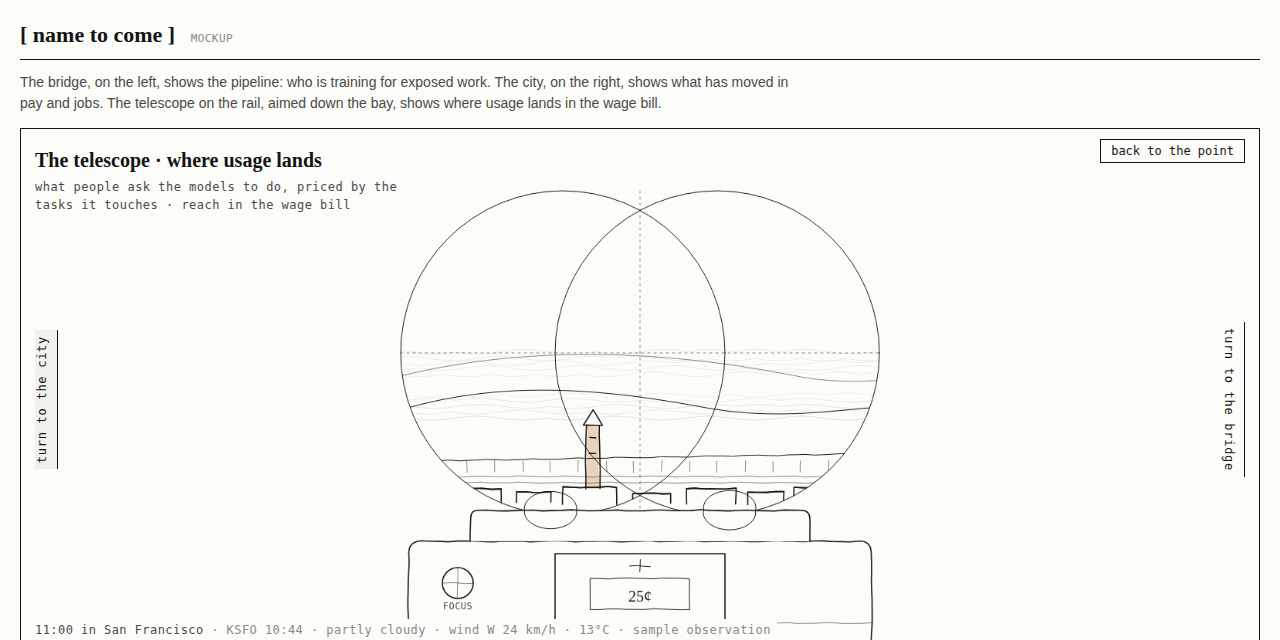
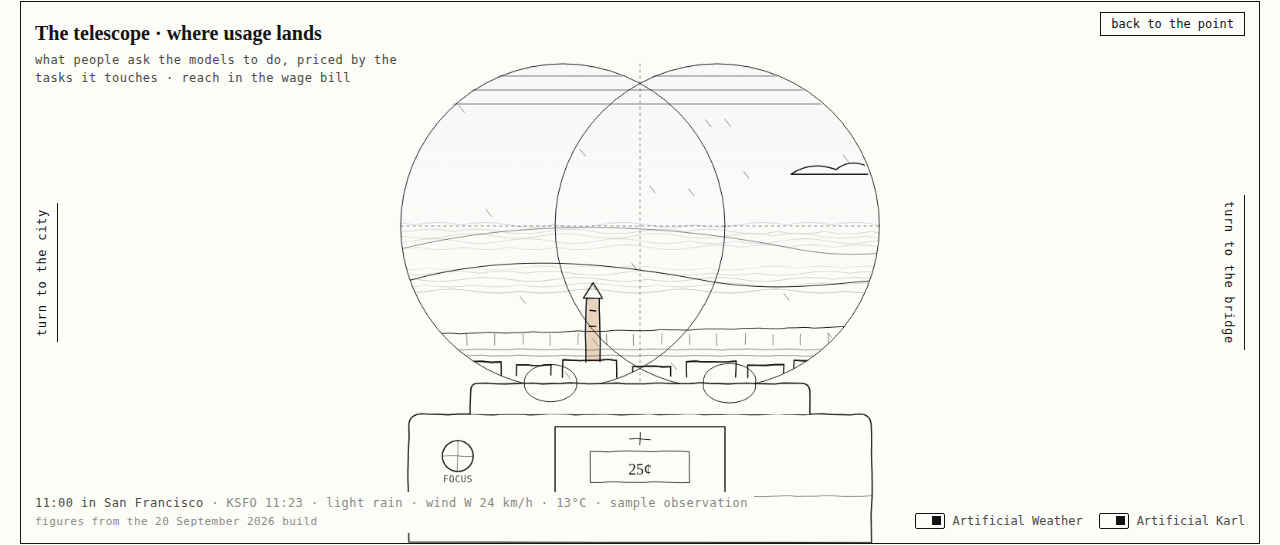
Front page: the sky barely tinted, weather through the eyepieces, a sliver of the lighthouse with its beam in the turned views, City Hall as itself, Sutro's three masts, the house wide, less of the Gate, the robotaxi bumps, gets the water, thinks, turns and goes

diff --git a/docs/mockup/index.html b/docs/mockup/index.html
@@ -43,7 +43,7 @@ header.top{display:flex;align-items:baseline;justify-content:space-between;gap:1
 .stage>svg{position:absolute;inset:0;width:100%;height:100%;overflow:visible;will-change:transform;pointer-events:none}
 .stage>svg.pan{transform-origin:50% 25%;transition:transform 1.4s cubic-bezier(.6,0,.2,1),opacity .8s}
 .stage>svg.fg{transform-origin:50% 100%;transition:transform 1.4s cubic-bezier(.6,0,.2,1)}
-.stage[data-view="valley"]>svg.pan{opacity:0}
+.stage[data-view="valley"]>svg.pan:not(#L-sky){opacity:0}
 .scene{stroke:var(--ink);fill:none;stroke-width:1.6;stroke-linecap:round;stroke-linejoin:round}
 .scene .thin{stroke-width:1}
 .scene .hair{stroke-width:.7;opacity:.75}
@@ -77,7 +77,8 @@ header.top{display:flex;align-items:baseline;justify-content:space-between;gap:1
 .skywash{mix-blend-mode:var(--blend,multiply)}
 .stage.stale .obs{color:var(--ink-3)}
 .beam{transform-origin:var(--bx) var(--by);transition:transform .8s cubic-bezier(.65,0,.25,1)}
-.stage:not([data-view="home"]) .fg .hot,.stage:not([data-view="home"]) .beam{display:none}
+.stage:not([data-view="home"]) .fg .hot,.stage[data-view="valley"] .beam{display:none}
+.stage:not([data-view="home"]) .beam path{opacity:.4}
 .halo{fill:var(--gold);stroke:none;opacity:0;transition:opacity .6s}
 .nightlight{opacity:0;transition:opacity 1.2s}
 .dusk .nightlight{opacity:.45}
@@ -193,7 +194,7 @@ header.top{display:flex;align-items:baseline;justify-content:space-between;gap:1
 
   <div class="frame">
   <div class="stage" id="stage" data-view="home" data-aw="on" data-ak="on">
-    <svg class="pan" id="L-sky" viewBox="0 0 1600 700" aria-hidden="true">
+    <svg class="pan" id="L-sky" viewBox="0 0 1600 700" aria-hidden="true" style="transform:translateX(-100%) scale(1)">
       <defs>
         <filter id="wc" x="-10%" y="-10%" width="120%" height="120%">
           <feTurbulence type="fractalNoise" baseFrequency="0.06" numOctaves="2" seed="3" result="n"/>
@@ -203,21 +204,23 @@ header.top{display:flex;align-items:baseline;justify-content:space-between;gap:1
         <filter id="glow" x="-100%" y="-100%" width="300%" height="300%"><feGaussianBlur stdDeviation="6"/></filter>
         <linearGradient id="skygrad" x1="0" y1="0" x2="0" y2="1"><stop id="sky-top" offset="0" stop-color="#BFD3E6" stop-opacity="0"/><stop id="sky-low" offset="1" stop-color="#F2B48C" stop-opacity="0"/></linearGradient>
         <mask id="fogmask"><rect x="0" y="0" width="4800" height="700" fill="white"/><polygon id="cone" points="0,0" fill="black"/></mask>
+        <linearGradient id="dawngrad" x1="0" y1="0" x2="1" y2="0"><stop offset="0" stop-color="#F2B48C" stop-opacity="0"/><stop id="dawn-mid" offset=".5" stop-color="#F2B48C"/><stop offset="1" stop-color="#F2B48C" stop-opacity="0"/></linearGradient>
+        <mask id="binoc-pan"><rect x="0" y="0" width="4800" height="700" fill="black"/><circle cx="2300" cy="290" r="210" fill="white"/><circle cx="2500" cy="290" r="210" fill="white"/></mask>
         <mask id="binoc"><rect x="0" y="0" width="1600" height="700" fill="black"/><circle cx="700" cy="290" r="210" fill="white"/><circle cx="900" cy="290" r="210" fill="white"/></mask>
       </defs>
-      <rect class="skywash" x="0" y="0" width="4800" height="342" fill="url(#skygrad)"/>
-      <g id="sky" class="scene sky thin"></g>
+      <g id="skyall"><rect class="skywash" x="0" y="0" width="4800" height="342" fill="url(#skygrad)"/>
+      <g id="sky" class="scene sky thin"></g></g>
     </svg>
     <!-- ================= the panorama: bridge | point | city, painted once ================= -->
-    <svg class="pan" id="L-static" viewBox="0 0 1600 700" aria-hidden="true"><g class="scene"><g id="washes"></g><g id="far"></g></g></svg>
-    <svg class="pan" id="L-lights" viewBox="0 0 1600 700" aria-hidden="true"><g id="lights" class="scene"></g></svg>
-    <svg class="pan" id="L-water" viewBox="0 0 1600 700" aria-hidden="true"><g class="scene"><g id="water" class="hair"></g><g id="fog" class="fog" mask="url(#fogmask)"></g></g></svg>
+    <svg class="pan" id="L-static" viewBox="0 0 1600 700" aria-hidden="true" style="transform:translateX(-100%) scale(1)"><g class="scene"><g id="washes"></g><g id="far"></g></g></svg>
+    <svg class="pan" id="L-lights" viewBox="0 0 1600 700" aria-hidden="true" style="transform:translateX(-100%) scale(1)"><g id="lights" class="scene"></g></svg>
+    <svg class="pan" id="L-water" viewBox="0 0 1600 700" aria-hidden="true" style="transform:translateX(-100%) scale(1)"><g class="scene"><g id="water" class="hair"></g><g id="fog" class="fog" mask="url(#fogmask)"></g></g></svg>
     <!-- foreground: the point, the lighthouse, the railing, the viewer at rest -->
     <svg class="fg" id="L-fg" viewBox="0 0 1600 700" role="group" aria-label="An ink drawing of a lighthouse on a headland. Turn to the city or the bridge, or raise the coin telescope to look at the valley.">
       <g id="fg" class="scene">
         <path d="M560 700 C 600 620, 690 590, 760 585 C 830 580, 880 600, 930 610 C 980 620, 1040 660, 1060 700 Z" style="fill:var(--paper)"/>
         <path d="M600 660 C 650 640, 700 645, 740 630 M850 640 C 900 630, 950 650, 1000 670" class="thin"/>
-        <g class="beam" id="beam" style="--bx:800px;--by:300px"><path d="M800 300 L 1590 150 M800 300 L 1590 450" class="hair" stroke-dasharray="6 6"/></g>
+        <g class="beam" id="beam" style="--bx:800px;--by:300px"><path d="M800 300 L 3200 -156 M800 300 L 3200 756" class="hair" stroke-dasharray="6 6"/></g>
         <g id="lh"></g>
         <path d="M640 604 L 960 604 M640 604 L 640 630 M720 604 L 720 632 M800 604 L 800 632 M880 604 L 880 630 M960 604 L 960 628" class="thin"/>
         <g class="hot" id="hot-tele" tabindex="0" role="button" aria-label="The telescope: where usage lands">
@@ -357,6 +360,18 @@ header.top{display:flex;align-items:baseline;justify-content:space-between;gap:1
   function blob(g, x, y, w, h, color, seed){ const r = rng(seed); let d = `M${x} ${y+h/2}`; const n=7; for (let i=1;i<=n;i++){ const a = i/n*2*Math.PI; d += ` Q ${x+w/2+Math.cos(a-0.4)*w*0.6*(0.8+r()*0.4)} ${y+h/2+Math.sin(a-0.4)*h*0.6*(0.8+r()*0.4)} ${x+w/2+Math.cos(a)*w/2} ${y+h/2+Math.sin(a)*h/2}`; } return el("path", {d, class:"wc", style:`fill:${color}`}, g); }
   function tint(g, d, color, seed=1){ return el("path", {d, class:"wc", style:`fill:${color}`}, g); }
   function tintRect(g, x, y, w, h, color){ return tint(g, `M${x} ${y} h ${w} v ${h} h ${-w} Z`, color); }
+  // City Hall: the wide colonnaded base with its portico, the drum, the dome and the lantern
+  function domePath(x, base, w, h){ return `M ${x-w/2} ${base} C ${x-w/2} ${base-h*0.9}, ${x-w/2+w*0.15} ${base-h}, ${x} ${base-h} C ${x+w/2-w*0.15} ${base-h}, ${x+w/2} ${base-h*0.9}, ${x+w/2} ${base} Z`; }
+  function domeHalf(x, base, w, h, side){ const e = x + side*w/2, c = x + side*(w/2 - w*0.15); return `M ${e} ${base} C ${e} ${base-h*0.9}, ${c} ${base-h}, ${x} ${base-h} L ${x} ${base} Z`; }
+  function cityhall(g, x, gy){
+    el("path", {d:`M ${x-60} ${gy} L ${x-60} ${gy-22} L ${x+60} ${gy-22} L ${x+60} ${gy}`}, g);
+    for (let c=x-52; c<=x+52; c+=8) if (Math.abs(c-x) > 16) el("path", {d:`M${c} ${gy-4} L ${c} ${gy-18}`, class:"hair"}, g);
+    el("path", {d:`M ${x-14} ${gy} L ${x-14} ${gy-26} L ${x} ${gy-32} L ${x+14} ${gy-26} L ${x+14} ${gy} M ${x-8} ${gy-4} L ${x-8} ${gy-22} M ${x} ${gy-4} L ${x} ${gy-24} M ${x+8} ${gy-4} L ${x+8} ${gy-22}`, class:"thin"}, g);
+    el("path", {d:`M ${x-22} ${gy-22} L ${x-22} ${gy-44} L ${x+22} ${gy-44} L ${x+22} ${gy-22}`, class:"thin"}, g);
+    for (let c=x-16; c<=x+16; c+=8) el("path", {d:`M${c} ${gy-26} L ${c} ${gy-41}`, class:"hair"}, g);
+    el("path", {d:domePath(x, gy-44, 44, 24)}, g);
+    el("path", {d:`M ${x-3} ${gy-68} L ${x-3} ${gy-76} L ${x+3} ${gy-76} L ${x+3} ${gy-68} M ${x} ${gy-76} L ${x} ${gy-82}`, class:"thin"}, g);
+  }
   function dome(g, x, baseY, w, cls){ el("path", {d:`M ${x-w/2} ${baseY} L ${x-w/2} ${baseY-20} L ${x+w/2} ${baseY-20} L ${x+w/2} ${baseY}`, class:cls}, g); el("path", {d:`M ${x-w*0.33} ${baseY-20} C ${x-w*0.33} ${baseY-20-w*0.6}, ${x+w*0.33} ${baseY-20-w*0.6}, ${x+w*0.33} ${baseY-20} M ${x-4} ${baseY-20-w*0.46} L ${x+4} ${baseY-20-w*0.46} L ${x} ${baseY-20-w*0.62} Z`, class:cls}, g); }
   function campanile(g, x, baseY, h){ el("path", {d:`M ${x-11} ${baseY} L ${x-11} ${baseY-h} L ${x+11} ${baseY-h} L ${x+11} ${baseY} M ${x-14} ${baseY-h} L ${x+14} ${baseY-h} L ${x} ${baseY-h-22} Z M ${x-6} ${baseY-h+10} L ${x-6} ${baseY-h+30} M ${x+6} ${baseY-h+10} L ${x+6} ${baseY-h+30} M ${x-4} ${baseY-h+50} L ${x+4} ${baseY-h+50}`}, g); }
 
@@ -429,8 +444,11 @@ header.top{display:flex;align-items:baseline;justify-content:space-between;gap:1
     el("path", {d:`M ${ox+30} ${baseY-6} C ${ox+200} ${baseY-30}, ${ox+400} ${baseY-40}, ${ox+700} ${baseY-24} C ${ox+900} ${baseY-14}, ${ox+1100} ${baseY-20}, ${ox+1580} ${baseY-8}`, class:"thin"}, g);
     el("path", {d:`M ${ox+520} ${baseY-60} C ${ox+640} ${baseY-120}, ${ox+760} ${baseY-118}, ${ox+880} ${baseY-70}`, class:"hair"}, g);
     const sx = ox+700, sy = baseY-118;
-    el("path", {d:`M${sx-14} ${sy} L ${sx} ${sy-92} L ${sx+14} ${sy} M${sx-9} ${sy-30} L ${sx+9} ${sy-30} M${sx-6} ${sy-58} L ${sx+6} ${sy-58} M${sx-22} ${sy-70} L ${sx+22} ${sy-70}`, class:"thin"}, g);
-    suspension(g, ox+300, ox+490, baseY-34, 130, 90);
+    // Sutro: three masts, the outer pair upright at the top, pinched to a waist, splayed to the feet, tied by struts
+    const H = 100;
+    el("path", {d:`M${sx-14} ${sy-H} L ${sx-14} ${sy-H*0.62} L ${sx-5} ${sy-H*0.38} L ${sx-22} ${sy} M${sx} ${sy-H-8} L ${sx} ${sy} M${sx+14} ${sy-H} L ${sx+14} ${sy-H*0.62} L ${sx+5} ${sy-H*0.38} L ${sx+22} ${sy}`, class:"thin"}, g);
+    for (const [f, hw] of [[0.92, 14], [0.62, 14], [0.38, 5], [0.14, 17]]) el("path", {d:`M${sx-hw} ${sy-H*f} L ${sx+hw} ${sy-H*f}`, class:"hair"}, g);
+    suspension(g, ox+60, ox+250, baseY-34, 130, 90);
     el("path", {d:`M ${ox+560} ${baseY-30} L ${ox+600} ${baseY-44} L ${ox+640} ${baseY-30} M ${ox+596} ${baseY-44} L ${ox+596} ${baseY-60} L ${ox+606} ${baseY-60} L ${ox+606} ${baseY-44}`, class:"thin"}, g);
     const towers = [[860,110,26,1],[892,150,24,1],[920,80,20,0],[946,200,30,1],[982,260,34,1],[1022,180,26,1],[1054,150,22,1],[1082,120,28,0],[1116,96,22,1],[1144,140,26,1],[1176,70,20,0]];
     for (const [x,h,w,win] of towers) box(g, ox+x, baseY-h-8, w, h, win);
@@ -439,21 +457,22 @@ header.top{display:flex;align-items:baseline;justify-content:space-between;gap:1
     // City Hall, and Hayes Valley just west of it: Patricia's Green with its trees, and the red house over the green
     // City Hall and Hayes Valley sit west of the towers, under Sutro, on the shore's register: the dome, the green with its trees, and the red house over the green
     const hv = ox+CH, gy = baseY-8;
-    dome(g, hv, gy, 80, "thin");
-    for (let x=hv-96; x<hv-44; x+=12) el("path", {d:`M${x} ${gy} L ${x+6} ${gy-8} L ${x+12} ${gy}`, class:"hair"}, g);
-    el("path", {d:`M ${hv-60} ${gy} L ${hv-60} ${gy-32} L ${hv-42} ${gy-32} L ${hv-42} ${gy} M ${hv-56} ${gy-24} L ${hv-46} ${gy-24} M ${hv-56} ${gy-14} L ${hv-46} ${gy-14}`, class:"thin"}, g);
-    for (const x of [hv-88, hv-74]) el("path", {d:`M${x} ${gy} q 0 -12 7 -14 q 7 2 7 14 z`, class:"hair"}, g);
+    cityhall(g, hv, gy);
+    // the house over the green: three storeys, six windows across, west of City Hall
+    el("path", {d:`M ${hv-112} ${gy} L ${hv-112} ${gy-24} L ${hv-72} ${gy-24} L ${hv-72} ${gy}`, class:"thin"}, g);
+    for (let r=0; r<3; r++) for (let c=0; c<6; c++) el("path", {d:`M${hv-109+c*6.4} ${gy-19+r*6.5} l 3.4 0`, class:"hair"}, g);
     // the hydrant on the Embarcadero, past the Ferry Building, where the robotaxi meets it
-    el("path", {d:`M ${ox+HYD-3} ${gy} L ${ox+HYD-3} ${gy-11} Q ${ox+HYD} ${gy-15} ${ox+HYD+3} ${gy-11} L ${ox+HYD+3} ${gy} M ${ox+HYD-6} ${gy-7} L ${ox+HYD+6} ${gy-7}`, class:"thin"}, g);
+    el("path", {d:`M ${ox+HYD-3} ${gy} L ${ox+HYD-3} ${gy-14} Q ${ox+HYD} ${gy-18} ${ox+HYD+3} ${gy-14} L ${ox+HYD+3} ${gy} M ${ox+HYD-6} ${gy-9} L ${ox+HYD+6} ${gy-9} M ${ox+HYD-3} ${gy-5} L ${ox+HYD+3} ${gy-5}`, class:"thin"}, g);
     // Ferry Building on the waterfront
     el("path", {d:`M ${ox+1190} ${baseY-8} L ${ox+1190} ${baseY-30} L ${ox+1290} ${baseY-30} L ${ox+1290} ${baseY-8}`}, g);
     for (let x=ox+1198; x<ox+1290; x+=9) el("path", {d:`M${x} ${baseY-26} L ${x} ${baseY-12}`, class:"hair"}, g);
     el("path", {d:`M ${ox+1232} ${baseY-30} L ${ox+1232} ${baseY-96} L ${ox+1248} ${baseY-96} L ${ox+1248} ${baseY-30} M ${ox+1229} ${baseY-96} L ${ox+1251} ${baseY-96} L ${ox+1240} ${baseY-110} Z`}, g);
     el("circle", {cx:ox+1240, cy:baseY-84, r:5, class:"thin"}, g);
     if (colour){
-      tint(washes, `M ${hv-27} ${gy-20} C ${hv-27} ${gy-68}, ${hv+27} ${gy-68}, ${hv+27} ${gy-20} Z`, "var(--gold)");   // the dome
-      tintRect(washes, hv-59, gy-31, 16, 31, "var(--rose)");                                                        // the house over the green
-      tint(washes, `M ${hv-96} ${gy} h 52 v 2 h -52 Z M ${hv-88} ${gy} q 0 -12 7 -14 q 7 2 7 14 Z M ${hv-74} ${gy} q 0 -12 7 -14 q 7 2 7 14 Z`, "var(--green)"); // the green and its trees
+      tint(washes, domePath(hv, gy-44, 44, 24), "var(--glass)").style.opacity = ".3";                               // the dome, grey-blue
+      tintRect(washes, hv-3, gy-82, 6, 14, "var(--gold)");                                                          // the lantern's gold
+      tintRect(washes, hv-60, gy-22, 120, 22, "var(--cream)").style.opacity = ".3";                                 // the stone
+      tintRect(washes, hv-111, gy-23, 38, 23, "var(--rose)");                                                       // the house over the green
       tintRect(washes, ox+1191, baseY-29, 98, 21, "var(--cream)");                                                                // the Ferry Building
       tintRect(washes, ox+1233, baseY-95, 14, 66, "var(--cream)");
       tintRect(washes, ox+983, baseY-267, 32, 259, "var(--glass)").style.opacity = ".12";                                          // the tallest tower
@@ -491,16 +510,16 @@ header.top{display:flex;align-items:baseline;justify-content:space-between;gap:1
     const ox = HOME*2, baseY = 400, [ca, cb] = nightPair(d);
     // the dome, split by the pair
     const hv = ox+CH, gy = baseY-8;
-    tint(LIGHTS, `M ${hv-27} ${gy-20} C ${hv-27} ${gy-68}, ${hv} ${gy-68}, ${hv} ${gy-60} L ${hv} ${gy-20} Z`, ca).classList.add("nightlight");
-    tint(LIGHTS, `M ${hv} ${gy-20} L ${hv} ${gy-60} C ${hv} ${gy-68}, ${hv+27} ${gy-68}, ${hv+27} ${gy-20} Z`, cb).classList.add("nightlight");
+    tint(LIGHTS, domeHalf(hv, gy-44, 44, 24, -1), ca).classList.add("nightlight");
+    tint(LIGHTS, domeHalf(hv, gy-44, 44, 24, 1), cb).classList.add("nightlight");
     // the crown: a soft wash and a grid of blocks that breathe out of step
     tintRect(LIGHTS, ox+983, baseY-290, 32, 30, "#9FB7C9").classList.add("nightlight");
     const grid = el("g", {class:"nightlight"}, LIGHTS); const r = rng(59);
     for (let i=0;i<4;i++) for (let j=0;j<5;j++){ const b = el("rect", {x:ox+986+i*7, y:baseY-286+j*6, width:5, height:4, class:"crownblock", style:`fill:#9FB7C9;stroke:none`}, grid); b.style.animationDelay = (-r()*9).toFixed(1) + "s"; }
     // the same lights, small, in the far city seen from the point
-    const fx = HOME+1020+CH*.55, fb = 300+(250-8-20)*.55, ft = 300+(250-8-68)*.55;                    // the far dome, drawn at .55 on a base of 250
-    tint(LIGHTS, `M ${fx-15} ${fb} C ${fx-15} ${ft}, ${fx} ${ft}, ${fx} ${ft+4} L ${fx} ${fb} Z`, ca).classList.add("nightlight");
-    tint(LIGHTS, `M ${fx} ${fb} L ${fx} ${ft+4} C ${fx} ${ft}, ${fx+15} ${ft}, ${fx+15} ${fb} Z`, cb).classList.add("nightlight");
+    const fx = HOME+1020+CH*.55, fb = 300+(250-8-44)*.55;                                             // the far dome, drawn at .55 on a base of 250
+    tint(LIGHTS, domeHalf(fx, fb, 44*.55, 24*.55, -1), ca).classList.add("nightlight");
+    tint(LIGHTS, domeHalf(fx, fb, 44*.55, 24*.55, 1), cb).classList.add("nightlight");
     tintRect(LIGHTS, HOME+1020+983*.55, 300+(250-290)*.55, 18, 16, "#9FB7C9").classList.add("nightlight");   // the far crown
   }
   drawLights(new Date());
@@ -556,7 +575,8 @@ header.top{display:flex;align-items:baseline;justify-content:space-between;gap:1
   function setCone(t){
     const a = {city:[-14, 14], bridge:[166, 194], tele:[70, 110]}[t];
     if (!a){ cone.setAttribute("points", "0,0"); return; }
-    const ox=800+HOME, oy=300, L=1400, p=[[ox,oy]];
+    // the lantern, in panorama units, for the view the fog is cut in: at the point, or at the edge of the frame when the view has turned
+    const [ox, oy] = ({ city:[3408, 227], bridge:[1392, 227] })[stage.dataset.view] || [800+HOME, 300], L=1400, p=[[ox,oy]];
     for (let d=a[0]; d<=a[1]; d+=4){ const r=d*Math.PI/180; p.push([ox+L*Math.cos(r), oy+L*Math.sin(r)]); }
     cone.setAttribute("points", p.map(q=>q.join(",")).join(" "));
   }
@@ -585,13 +605,13 @@ header.top{display:flex;align-items:baseline;justify-content:space-between;gap:1
              title:"What has moved", lens:"Pay and employment by occupation, folded into 25 named skill groups and tested each year against that group's own year-to-year swing. The lens is set in advance at the size a move would have to reach to stand out from that history, which is why a small reading is still the right reading: this is the instrument that will notice. It changes once a year, with each spring release of the wage tables.",
              f1:["2.8","of 6.1","pay · largest standardised move · 2025 release","Six of 25 skill groups moved beyond two of their own standard errors; the largest sits at 2.8 against a lens of 6.1."],
              f2:["4.4","of 4.0","jobs · employment-weighted skill mix · 2025","The quantity side touched its lens this year. Whether it holds is what the next release answers."],
-             left:["bridge","turn to the bridge"], right:["valley","raise the telescope"], pan:-HOME*2, fgx:-720, z:1.25,
+             left:["bridge","turn to the bridge"], right:["valley","raise the telescope"], pan:-HOME*2, fgx:-770, z:1.25,
              tables:["outcomes_pay_series_balanced.csv","outcomes_quantity_series_balanced.csv","outcomes_pay_changes.csv"] },
     bridge:{ cap:["The bridge · the pipeline", "who is training for exposed work · degrees are the channel the counts can see"],
              title:"The pipeline", lens:"Bachelor's degrees awarded in fields whose graduates go on to exposed occupations, with each field scored by where its graduates actually work. This is the channel policy can count and the one that answers slowly, so a shift here is an early sign rather than a result. It changes once a year with the completions file, and the lateral channel, people arriving from other jobs, joins it when the flows matrix is released.",
              f1:["41","% of bachelor's","awarded in fields that lead to exposed jobs · 2024","Up from 40 percent the year before. Fields are scored by where their graduates actually work, not by where the catalogue says they should."],
              f2:["4 to 12","×","lateral arrivals over graduates, by occupation","From the flow account. The lateral matrix itself is the next file to arrive; until then this column carries the education channel only."],
-             left:["valley","raise the telescope"], right:["city","turn to the city"], pan:0, fgx:720, z:1.25,
+             left:["valley","raise the telescope"], right:["city","turn to the city"], pan:0, fgx:770, z:1.25,
              tables:["pipeline_completions_by_state.csv","pipeline_enrolment_by_exposure.csv","pipeline_field_exposure_crosswalk.csv","capacity_education_channel.csv"] },
     valley:{ cap:["The telescope · where usage lands", "what people ask the models to do, priced by the tasks it touches · reach in the wage bill"],
              title:"Where usage lands", lens:"What people ask the models to do, mapped through eighteen thousand tasks onto the dollars paid for them, then onto the skills those tasks use. Usage is where a change starts, so this is the view that moves first and most often, and it says nothing yet about pay. It changes with each platform release, every few months, and three platforms are shown side by side because each sees only its own users.",
@@ -633,7 +653,8 @@ header.top{display:flex;align-items:baseline;justify-content:space-between;gap:1
     stage.dataset.view = view;
     $("#life").replaceChildren();                                              // whatever was crossing the last view stays there
     hold(); light(null);
-    if (view === "valley") $("#life").setAttribute("mask", "url(#binoc)"); else $("#life").removeAttribute("mask");
+    if (view === "valley"){ $("#life").setAttribute("mask", "url(#binoc)"); $("#skyall").setAttribute("mask", "url(#binoc-pan)"); }
+    else { $("#life").removeAttribute("mask"); $("#skyall").removeAttribute("mask"); }
     const r = R[view];
     // the surfaces slide and lean in together; a percent of the surface width is a panorama unit over 1600
     pans.forEach(p => { p.style.transform = `translateX(${(r.pan*r.z/16).toFixed(3)}%) scale(${r.z})`; });
@@ -659,7 +680,7 @@ header.top{display:flex;align-items:baseline;justify-content:space-between;gap:1
     } else {
       vv.classList.add("off"); big.classList.add("down");
       timer = setTimeout(()=>{ valley.classList.add("off"); fg.classList.remove("off"); }, 600);
-      if (view==="home") sweep(); else { hold(); light(null); }
+      if (view==="home") sweep(); else { hold(); light(null); aim(view); }
     }
   }
   home.addEventListener("click", ()=>go("home"));
@@ -771,8 +792,8 @@ header.top{display:flex;align-items:baseline;justify-content:space-between;gap:1
   const sky = $("#sky");
   // The sky's own colour: the faintest wash, blue by day, warm at the horizon around dawn and dusk, a deep
   // blue at night. Each is a pair of stops keyed to the sun's altitude and blended between the keys.
-  const SKYKEYS = [[-18, ["#1B2238", .55, "#1B2238", .25]], [-7, ["#5D5F86", .45, "#E9A27A", .35]], [-1, ["#B4B0CF", .4, "#F2B48C", .55]],
-                   [6, ["#BFD3E6", .35, "#F4C9A6", .3]], [16, ["#BFD3E6", .38, "#DCE7EF", .08]]];
+  const SKYKEYS = [[-18, ["#1B2238", .28, "#1B2238", .1]], [-7, ["#5D5F86", .16, "#E9A27A", .14]], [-1, ["#B4B0CF", .14, "#F2B48C", .22]],
+                   [6, ["#BFD3E6", .12, "#F4C9A6", .1]], [16, ["#BFD3E6", .1, "#DCE7EF", .02]]];
   function hexLerp(a, b, t){ const A = a.match(/\w\w/g).map(h=>parseInt(h,16)), B = b.match(/\w\w/g).map(h=>parseInt(h,16)); return "#" + A.map((v,i)=>Math.round(v + (B[i]-v)*t).toString(16).padStart(2,"0")).join(""); }
   function skyColour(sun){
     const a = Math.max(SKYKEYS[0][0], Math.min(SKYKEYS[SKYKEYS.length-1][0], sun.alt)); let i = 0; while (i < SKYKEYS.length-2 && a > SKYKEYS[i+1][0]) i++;
@@ -794,7 +815,7 @@ header.top{display:flex;align-items:baseline;justify-content:space-between;gap:1
     document.querySelectorAll(".fog").forEach(g=>{ g.style.opacity = w.fog; });
     sky.innerHTML = "";
     const r = rng(w.clouds*13+7);
-    for (let i=0;i<w.clouds*3;i++){ const x = r()*W, y = 150 + r()*60, wd = 80 + r()*140;
+    for (let i=0;i<w.clouds*3;i++){ const x = r()*W, y = 200 + r()*50, wd = 80 + r()*140;
       const d = w.streak ? `M${x} ${y} q ${wd*.5} -6 ${wd} 0 M${x+20} ${y+8} q ${wd*.3} -4 ${wd*.6} 0` : `M${x} ${y} q ${wd*.2} -18 ${wd*.45} -6 q ${wd*.15} -16 ${wd*.35} -2 q ${wd*.2} -4 ${wd*.2} 8 Z`;
       const c = el("path", {d, class:"cloud"}, sky); c.style.animationDelay = (-r()*240).toFixed(0) + "s"; }
     if (w.band) for (let y=96; y<140; y+=18) el("path", {d:`M 0 ${y} L ${W} ${y}`, class:"hair"}, sky);
@@ -817,7 +838,8 @@ header.top{display:flex;align-items:baseline;justify-content:space-between;gap:1
     }
     if (sun.alt > -8 && sun.alt < 8){                                            // dawn or dusk: one warm band on the horizon, where the sun is
       const x = xOfAzimuth(sun.az); const morning = sun.az < 180;
-      tint($("#washes"), `M ${x-700} 306 Q ${x} 296 ${x+700} 306 L ${x+700} 340 L ${x-700} 340 Z`, morning ? "#F2B48C" : "#E07A3F").classList.add("dawn");
+      $("#dawn-mid").setAttribute("stop-color", morning ? "#F2B48C" : "#E07A3F");
+      const band = tint($("#washes"), `M ${x-700} 306 Q ${x} 296 ${x+700} 306 L ${x+700} 340 L ${x-700} 340 Z`, "none"); band.style.fill = "url(#dawngrad)"; band.classList.add("dawn");
     }
     // the moon is drawn at its phase and where it is; on a night it has set, the drawing keeps it low over the horizon anyway
     if ((moon.alt > 0 || night) && (night || sun.alt < 4) && w.fog < .9 && !w.band){
@@ -886,14 +908,17 @@ header.top{display:flex;align-items:baseline;justify-content:space-between;gap:1
     robotaxi(){ if (stage.dataset.view !== "city") return EVENTS.gull();
       const z = R.city.z, vx = x => 800 + z*(x-800), vy = y => 175 + z*(y-175);   // the city leans in about a point a quarter down, so the shore does too
       // it comes in from the right along the Embarcadero, past the Ferry Building, and meets the hydrant there
-      const g = el("g", {class:"thin"}, life); const y = vy(390); const S = 1.15*z; const hx = vx(HYD), x0 = 1700;
+      const g = el("g", {class:"thin"}, life); const S = 1.05*z; const y = vy(392) - 3*S; const hx = vx(HYD), x0 = 1700;
       // a small car with its sensor dome, running the waterfront toward the hydrant by the Ferry Building
       const car = el("g", {transform:`scale(${S})`}, g);
       el("path", {d:"M-16 0 L 16 0 L 16 -8 L 10 -14 L -8 -14 L -16 -8 Z M-10 0 a 3 3 0 1 0 6 0 M4 0 a 3 3 0 1 0 6 0 M-2 -14 L -2 -18 a 4 3 0 1 1 8 0 L 6 -14 M-8 -14 L -6 -8 M 10 -14 L 8 -8", class:"thin"}, car);
       const dome = el("circle", {cx:2, cy:-18, r:1.2, class:"solid"}, car); let d = 0; const spin = setInterval(()=>{ dome.setAttribute("cx", 2 + Math.cos(d+=.6)*3); }, 80);
+      // the water, from the drawn hydrant's cap, pouring toward the car
+      const spout = el("g", {class:"thin", transform:`translate(${hx},${vy(392)}) scale(${z})`}, life); spout.style.opacity = 0;
+      for (let i=0;i<9;i++) el("path", {d:`M0 -17 q ${6 + i*2} ${-14 - i*3} ${14 + i*4} ${-2 + i*2} M${14 + i*4} ${-2 + i*2} l 1 3`}, spout);
       const stop = hx + 20*S;
-      tween(3400, k=>{ const x = x0 + Math.min(k*1.12, 1)*(stop-x0); const bump = k > .89 ? Math.sin((k-.89)*70)*2.5 : 0; g.setAttribute("transform", `translate(${x+bump},${y})`); },
-        ()=>{ tween(900, k=>{ car.setAttribute("transform", `scale(${S*(1 - 2*k)}, ${S})`); }, ()=>{ tween(2600, k=>{ g.setAttribute("transform", `translate(${stop + k*k*260},${y})`); }, ()=>{ clearInterval(spin); g.remove(); }); }); }); },
+      tween(3400, k=>{ const x = x0 + Math.min(k*1.12, 1)*(stop-x0); const bump = k > .89 ? Math.sin((k-.89)*70)*2.5 : 0; g.setAttribute("transform", `translate(${x+bump},${y})`); if (k > .89) spout.style.opacity = Math.min(1, (k-.89)*12); },
+        ()=>{ tween(2200, k=>{ spout.style.opacity = 1; }, ()=>{ tween(900, k=>{ car.setAttribute("transform", `scale(${S*(1 - 2*k)}, ${S})`); }, ()=>{ tween(2600, k=>{ g.setAttribute("transform", `translate(${stop + k*k*260},${y})`); spout.style.opacity = 1 - k; }, ()=>{ clearInterval(spin); g.remove(); spout.remove(); }); }); }); }); },
     gust(){ stage.classList.add("gust"); document.querySelectorAll(".gull").forEach(p=>{ p.style.transition = "transform .8s"; p.style.transform = "rotate(-22deg)"; });
       setTimeout(()=>{ stage.classList.remove("gust"); drawSky(OBS, stage.dataset.view); }, 5000); },
     ferry(){ if (stage.dataset.view !== "bridge") return EVENTS.gull();
